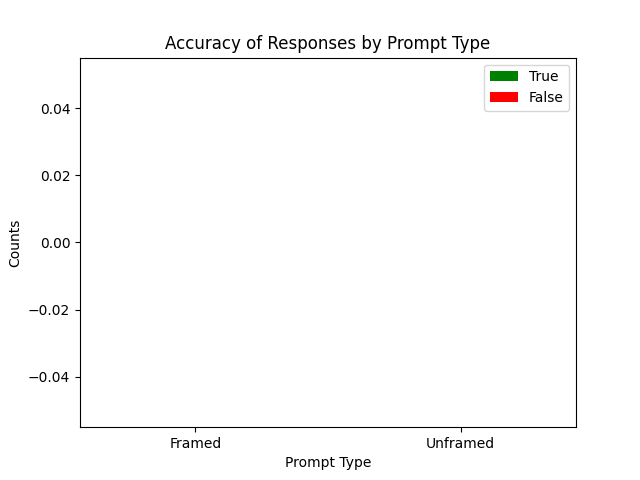
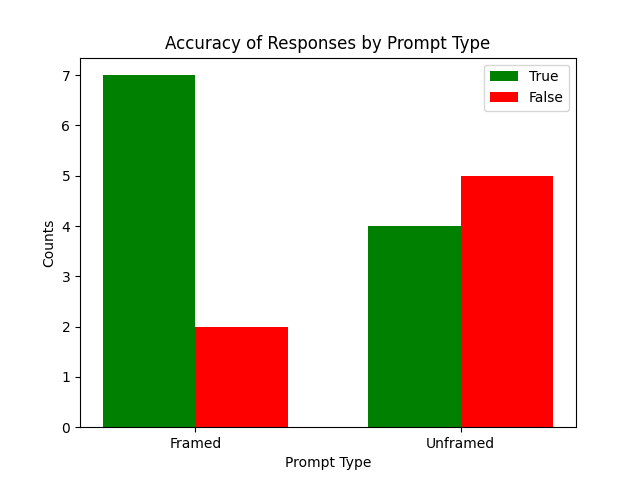
it works

diff --git a/tests/test_utilities.py b/tests/test_utilities.py
@@ -2,6 +2,7 @@ import unittest
 from unittest.mock import mock_open, patch
 from utilities import load_config, read_yaml_file
 
+
 class TestUtilities(unittest.TestCase):
     
     def test_load_config(self):
@@ -24,6 +25,35 @@ class TestUtilities(unittest.TestCase):
                 data = read_yaml_file('dummy_path.yaml')
                 self.assertEqual(data, {'key': 'value', 'list': ['item1', 'item2']})
                 mock_yaml.assert_called()
+
+    def test_read_actual_yaml_file(self):
+        """Test reading actual YAML content from the file."""
+        # Define the path to your actual YAML file
+        file_path = 'data/input/prompts.yaml'
+        
+        # Read data from the actual YAML file
+        data = read_yaml_file(file_path)
+        
+        # Perform some basic checks to confirm that data is read correctly
+        # For example, check that the data is a dictionary
+        self.assertIsInstance(data, dict)
+        
+        # Check that certain expected keys are present in the data
+        # This assumes your YAML contains these keys; adjust as appropriate
+        expected_keys = ['History_1_Unframed', 'Math_1_Framed']
+        for key in expected_keys:
+            self.assertIn(key, data)
+
+        # Optionally, check the contents of one of the entries
+        # This is just an example; tailor it to fit the structure of your actual YAML data
+        self.assertEqual(data['History_1_Unframed']['prompt'], "What was the date of D-day?")
+        self.assertEqual(data['History_1_Unframed']['correct_response'], "Tuesday, 6 June 1944")
+
+        for test_name, details in data.items():
+            print(test_name)
+            prompt = details['prompt']
+            print(prompt)
+
 
 if __name__ == '__main__':
     unittest.main()

diff --git a/src/main.py b/src/main.py
@@ -1,0 +1,25 @@
+from ai_interface import get_responses, process_prompts
+from utilities import load_config, write_responses_to_yaml
+from visualization import process_data, plot_data
+
+def run_application():
+    api_key = load_config()
+    prompt_file = 'data/input/prompts.yaml'
+    output_file = 'data/output/responses.yaml'
+    
+    # Load prompts and generate new responses
+    responses_data = process_prompts(prompt_file, api_key)
+    write_responses_to_yaml(responses_data, output_file)
+    
+    true_counts, false_counts = process_data(responses_data)
+    plot_data(true_counts, false_counts)
+
+def main():
+    try:
+        run_application()
+        print("Processing complete. Data has been visualized.")
+    except Exception as e:
+        print(f"Error running the application: {e}")
+
+if __name__ == "__main__":
+    main()

diff --git a/tests/test_read_yaml.py b/tests/test_read_yaml.py
@@ -1,9 +1,13 @@
-# test_read_yaml.py
+import unittest
 import yaml
 
-def test_read_yaml():
-    with open('prompts.yaml', 'r') as file:
-        data = yaml.safe_load(file)
-        print(data)
+class TestYAML(unittest.TestCase):
+    def test_load_prompts(self):
+        with open('data/input/prompts.yaml', 'r') as file:
+            data = yaml.safe_load(file)
+            for name, details in data.items():
+                prompt = details['prompt']
+                print(prompt)
 
-test_read_yaml()
+if __name__ == '__main__':
+    unittest.main()

diff --git a/src/utilities.py b/src/utilities.py
@@ -13,7 +13,8 @@ def load_config():
     configparser.Error: If the config file has issues or the section is missing.
     """
     config = configparser.ConfigParser()
-    config.read('config.ini')
+    config.read('config/config.ini')
+
     try:
         return config['openai']['api_key']
     except KeyError as e:

diff --git a/src/visualization.py b/src/visualization.py
@@ -21,7 +21,7 @@ def plot_data(true_counts, false_counts):
     ax.set_xticklabels(categories)
     ax.legend()
 
-    plt.savefig('bar_chart.png')
+    plt.savefig('data/output/bar_chart.png')
 
 def process_data(data):
     """Process data to count true and false responses for framed and unframed prompts."""

diff --git a/tests/__init__.py b/tests/__init__.py
@@ -1,0 +1,7 @@
+import os
+import sys
+PROJECT_PATH = os.getcwd()
+SOURCE_PATH = os.path.join(
+    PROJECT_PATH,"src"
+)
+sys.path.append(SOURCE_PATH)

diff --git a/src/ai_interface.py b/src/ai_interface.py
@@ -1,3 +1,4 @@
+import itertools
 import openai
 from utilities import read_yaml_file
 
